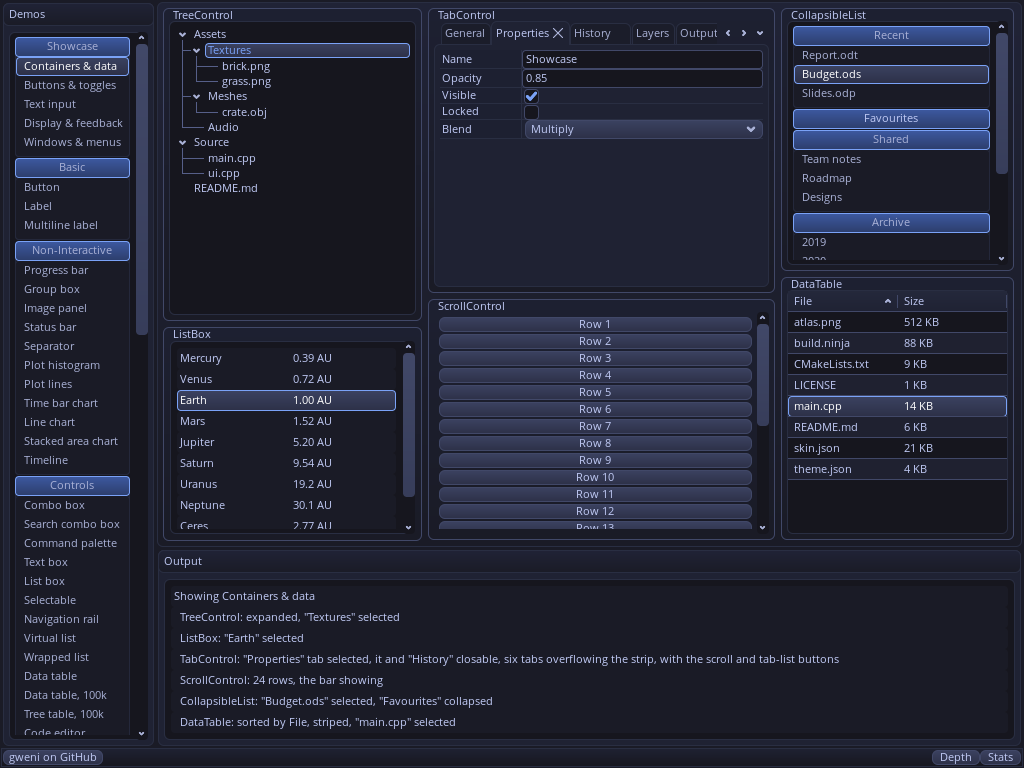
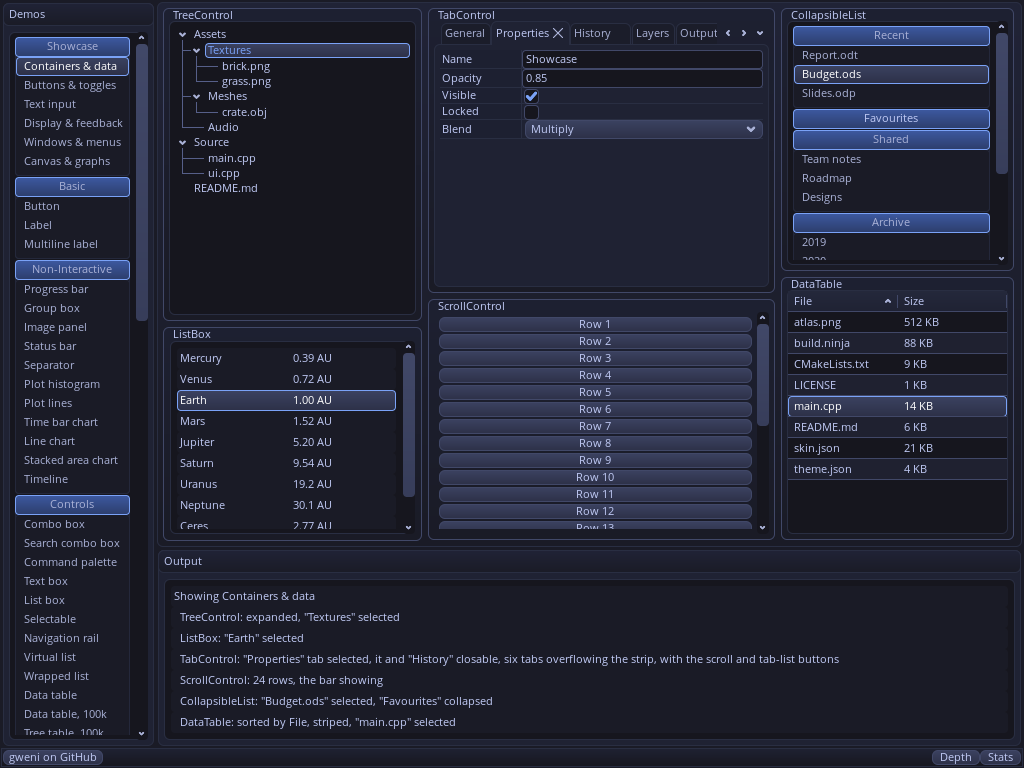
Demo shell: "Canvas & graphs" (ShowcaseGraphsDemo) as the sixth Showcase entry, and a Canvas category after Non-Standard with NodeGraphDemo ("Node graph") and ZoomPanelDemo ("Zoom panel"), so OpenGLCore --demo (demo.html?demo=) opens them; examples/CMakeLists.txt's four new lines given back their CR

Changed region(s): [[0.0, 0.1875, 0.125, 0.9688], [0.125, 0.4062, 0.1562, 0.4375]]

diff --git a/examples/demo/demo.cpp b/examples/demo/demo.cpp
@@ -66,6 +66,7 @@
 #include "demo/listBox.h"
 #include "demo/menuStrip.h"
 #include "demo/navigationRail.h"
+#include "demo/nodeGraph.h"
 #include "demo/numeric.h"
 #include "demo/pageControl.h"
 #include "demo/progressBar.h"
@@ -79,6 +80,7 @@
 #include "demo/showcaseInput.h"
 #include "demo/showcaseDisplay.h"
 #include "demo/showcaseWindows.h"
+#include "demo/showcaseGraphs.h"
 #include "demo/slider.h"
 #include "demo/rangeSlider.h"
 #include "demo/sliderText.h"
@@ -93,6 +95,7 @@
 #include "demo/unicodeText.h"
 #include "demo/virtualList.h"
 #include "demo/virtualListVariable.h"
+#include "demo/zoomPanel.h"
 #include "demo/logView.h"
 #include "demo/window.h"
 #include "demo/windowButtons.h"
@@ -209,6 +212,7 @@ void Demo::init(const String &name)
         addDemo<ShowcaseInputDemo>(cat, "ShowcaseInputDemo", "Text input");
         addDemo<ShowcaseDisplayDemo>(cat, "ShowcaseDisplayDemo", "Display & feedback");
         addDemo<ShowcaseWindowsDemo>(cat, "ShowcaseWindowsDemo", "Windows & menus");
+        addDemo<ShowcaseGraphsDemo>(cat, "ShowcaseGraphsDemo", "Canvas & graphs");
     }
     {
         controls::CollapsibleCategory *cat=list->add("Basic");
@@ -307,6 +311,13 @@ void Demo::init(const String &name)
         addDemo<CollapsibleListDemo>(cat, "CollapsibleListDemo", "Collapsible list");
         addDemo<ColorPickerDemo>(cat, "ColorPickerDemo", "Color picker");
         addDemo<ColorEditDemo>(cat, "ColorEditDemo", "Color edit");
+    }
+    {
+        controls::CollapsibleCategory *cat=list->add("Canvas");
+        cat->setName("Canvas");
+
+        addDemo<NodeGraphDemo>(cat, "NodeGraphDemo", "Node graph");
+        addDemo<ZoomPanelDemo>(cat, "ZoomPanelDemo", "Zoom panel");
     }
     // the page the PageControl shows before any is selected
     if(m_center->getPageNumber() < m_names.size())
